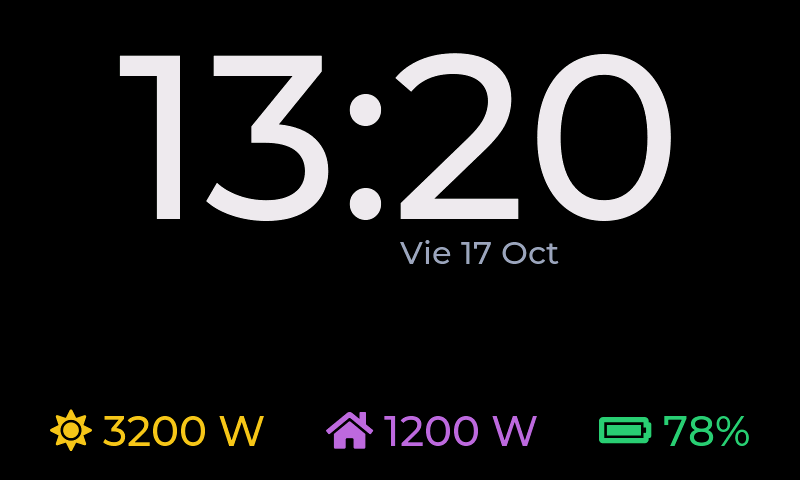
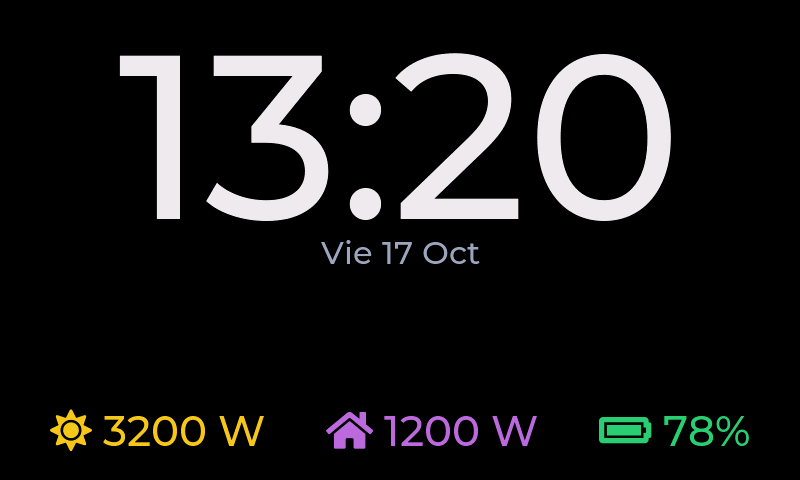
fix: centrar la fecha del modo reloj (la alineación se calculaba con el texto vacío)
Claude-Session: https://claude.ai/code/session_01Y6HVPCUv3iZfVZzo7WfwgH

Changed region(s): [[0.4062, 0.5, 0.7188, 0.5625]]

diff --git a/src/clock_mode.cpp b/src/clock_mode.cpp
@@ -17,6 +17,13 @@ static EnergyData s_e{};
 static bool      s_e_dirty   = false;
 static uint32_t  s_last_ms   = 0;
 
+// Fecha centrada bajo la hora. lv_obj_align_to no se recalcula cuando el texto cambia de ancho
+// (nace vacío), así que hay que repetirla después de cada lv_label_set_text de la fecha.
+static void place_date()
+{
+    lv_obj_align_to(s_lbl_date, s_lbl_time, LV_ALIGN_OUT_BOTTOM_MID, 0, SY(8));
+}
+
 static lv_obj_t* make_metric(lv_obj_t* parent, lv_color_t col)
 {
     lv_obj_t* l = lv_label_create(parent);
@@ -50,7 +57,7 @@ static void create_overlay()
     lv_obj_set_style_text_font(s_lbl_date, &FONT_MEDIUM, 0);
     lv_obj_set_style_text_color(s_lbl_date, C_MUTED2, 0);
     lv_label_set_text(s_lbl_date, "");
-    lv_obj_align_to(s_lbl_date, s_lbl_time, LV_ALIGN_OUT_BOTTOM_MID, 0, SY(8));
+    place_date();
 
     // Tres datos en fila, repartidos: solar · casa · batería
     lv_obj_t* row = lv_obj_create(s_ov);
@@ -78,6 +85,8 @@ static void refresh()
         lv_label_set_text(s_lbl_time, buf);
         snprintf(buf, sizeof(buf), "%s %d %s", DIAS[ti.tm_wday % 7], ti.tm_mday, MESES[ti.tm_mon % 12]);
         lv_label_set_text(s_lbl_date, buf);
+        lv_obj_update_layout(s_lbl_date);   // ancho ya con el texto nuevo
+        place_date();
     }
     if (s_e.valid) {
         lv_label_set_text_fmt(s_lbl_pv,   LV_SYMBOL_SUN " %d W", (int)s_e.pv_power);
